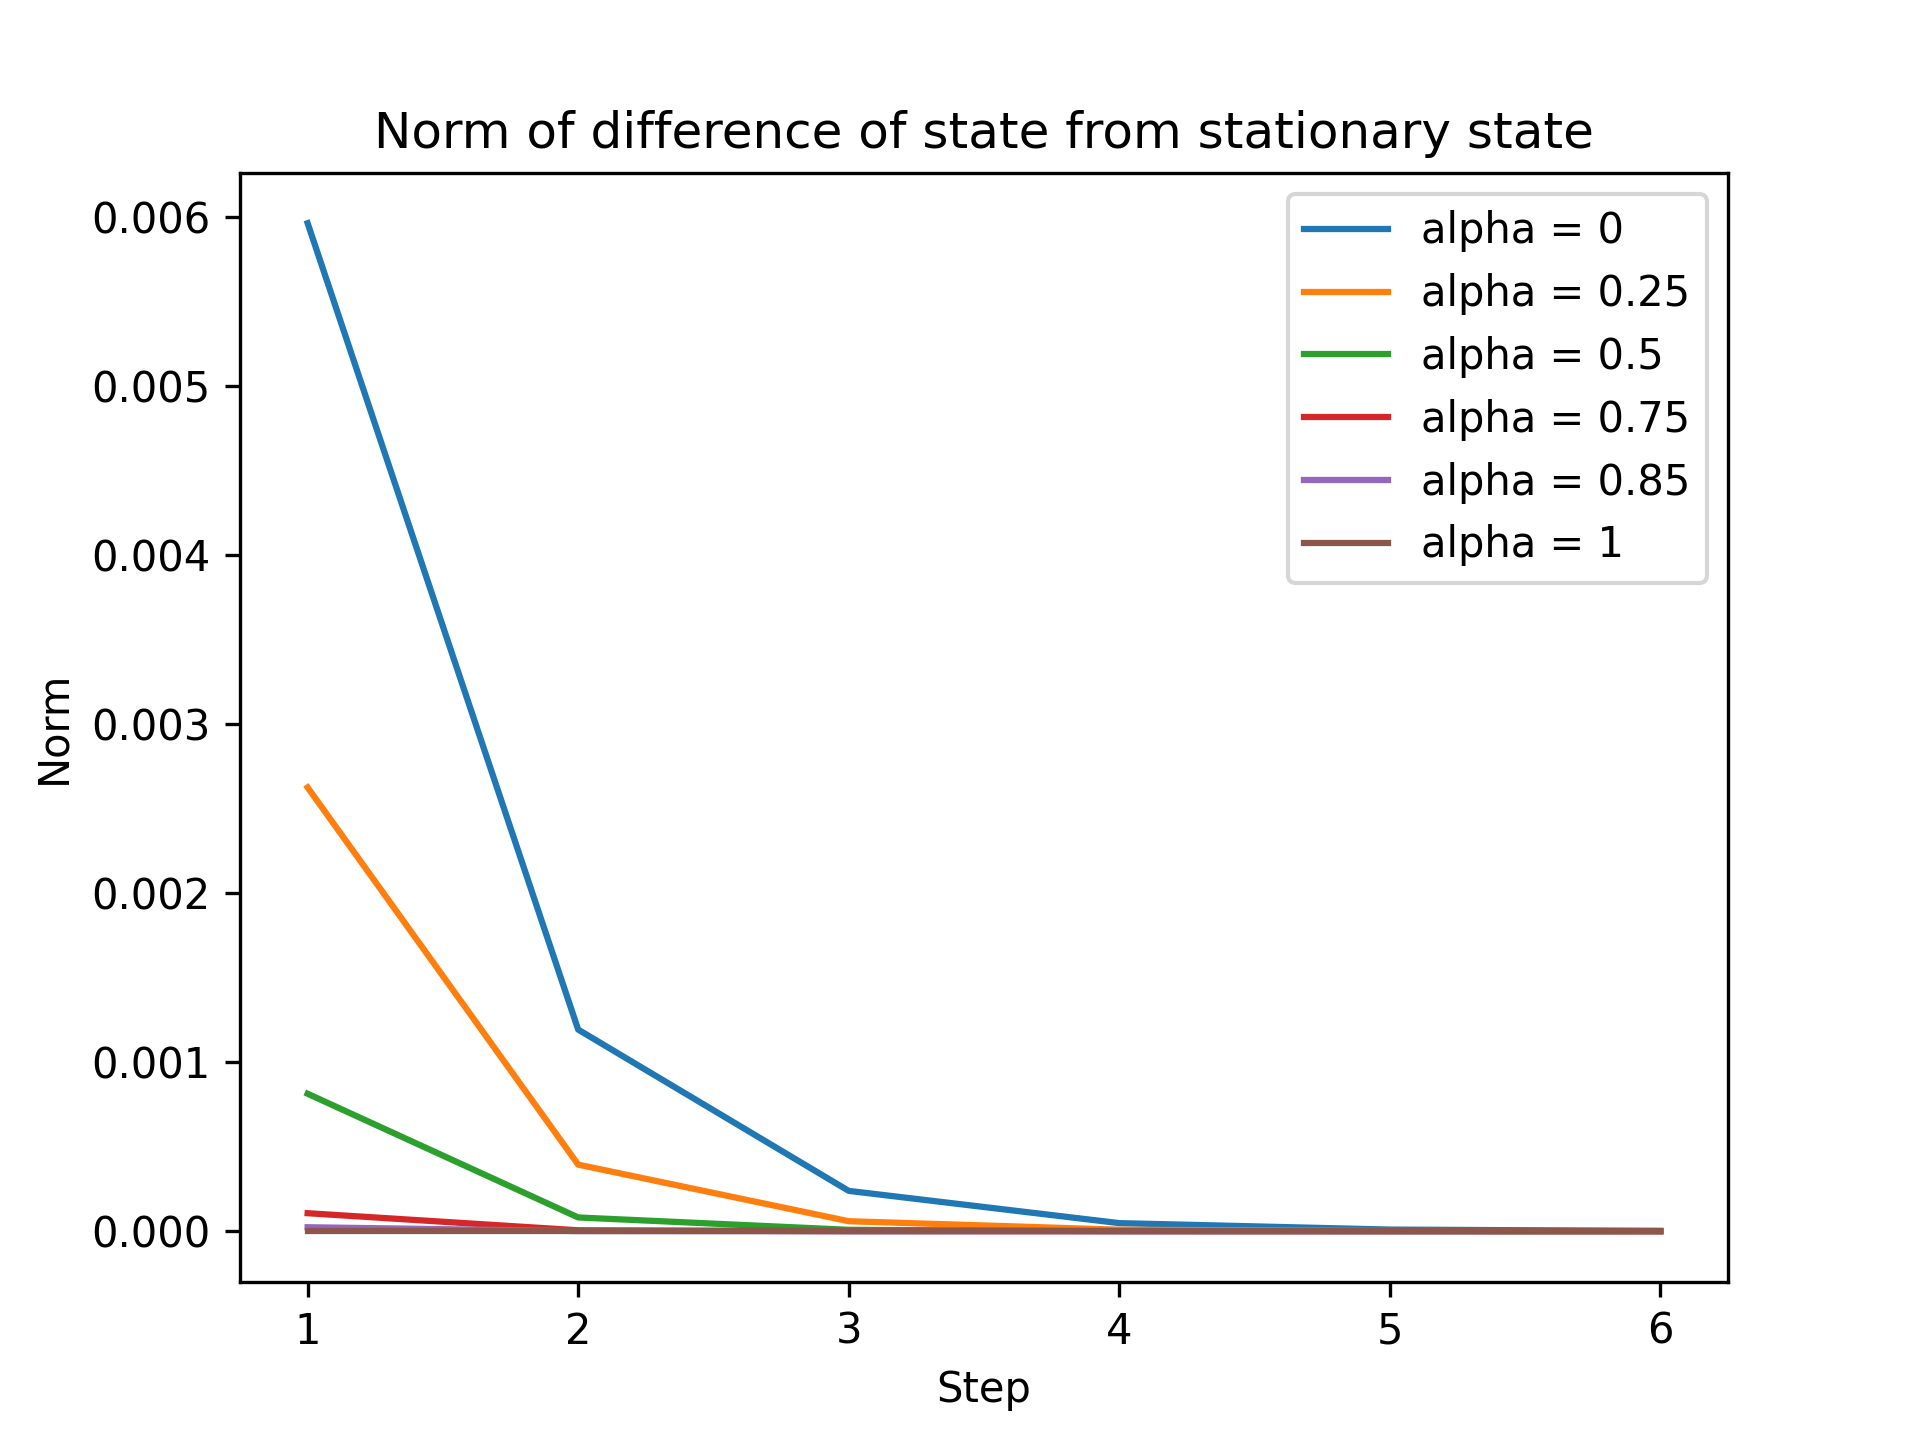
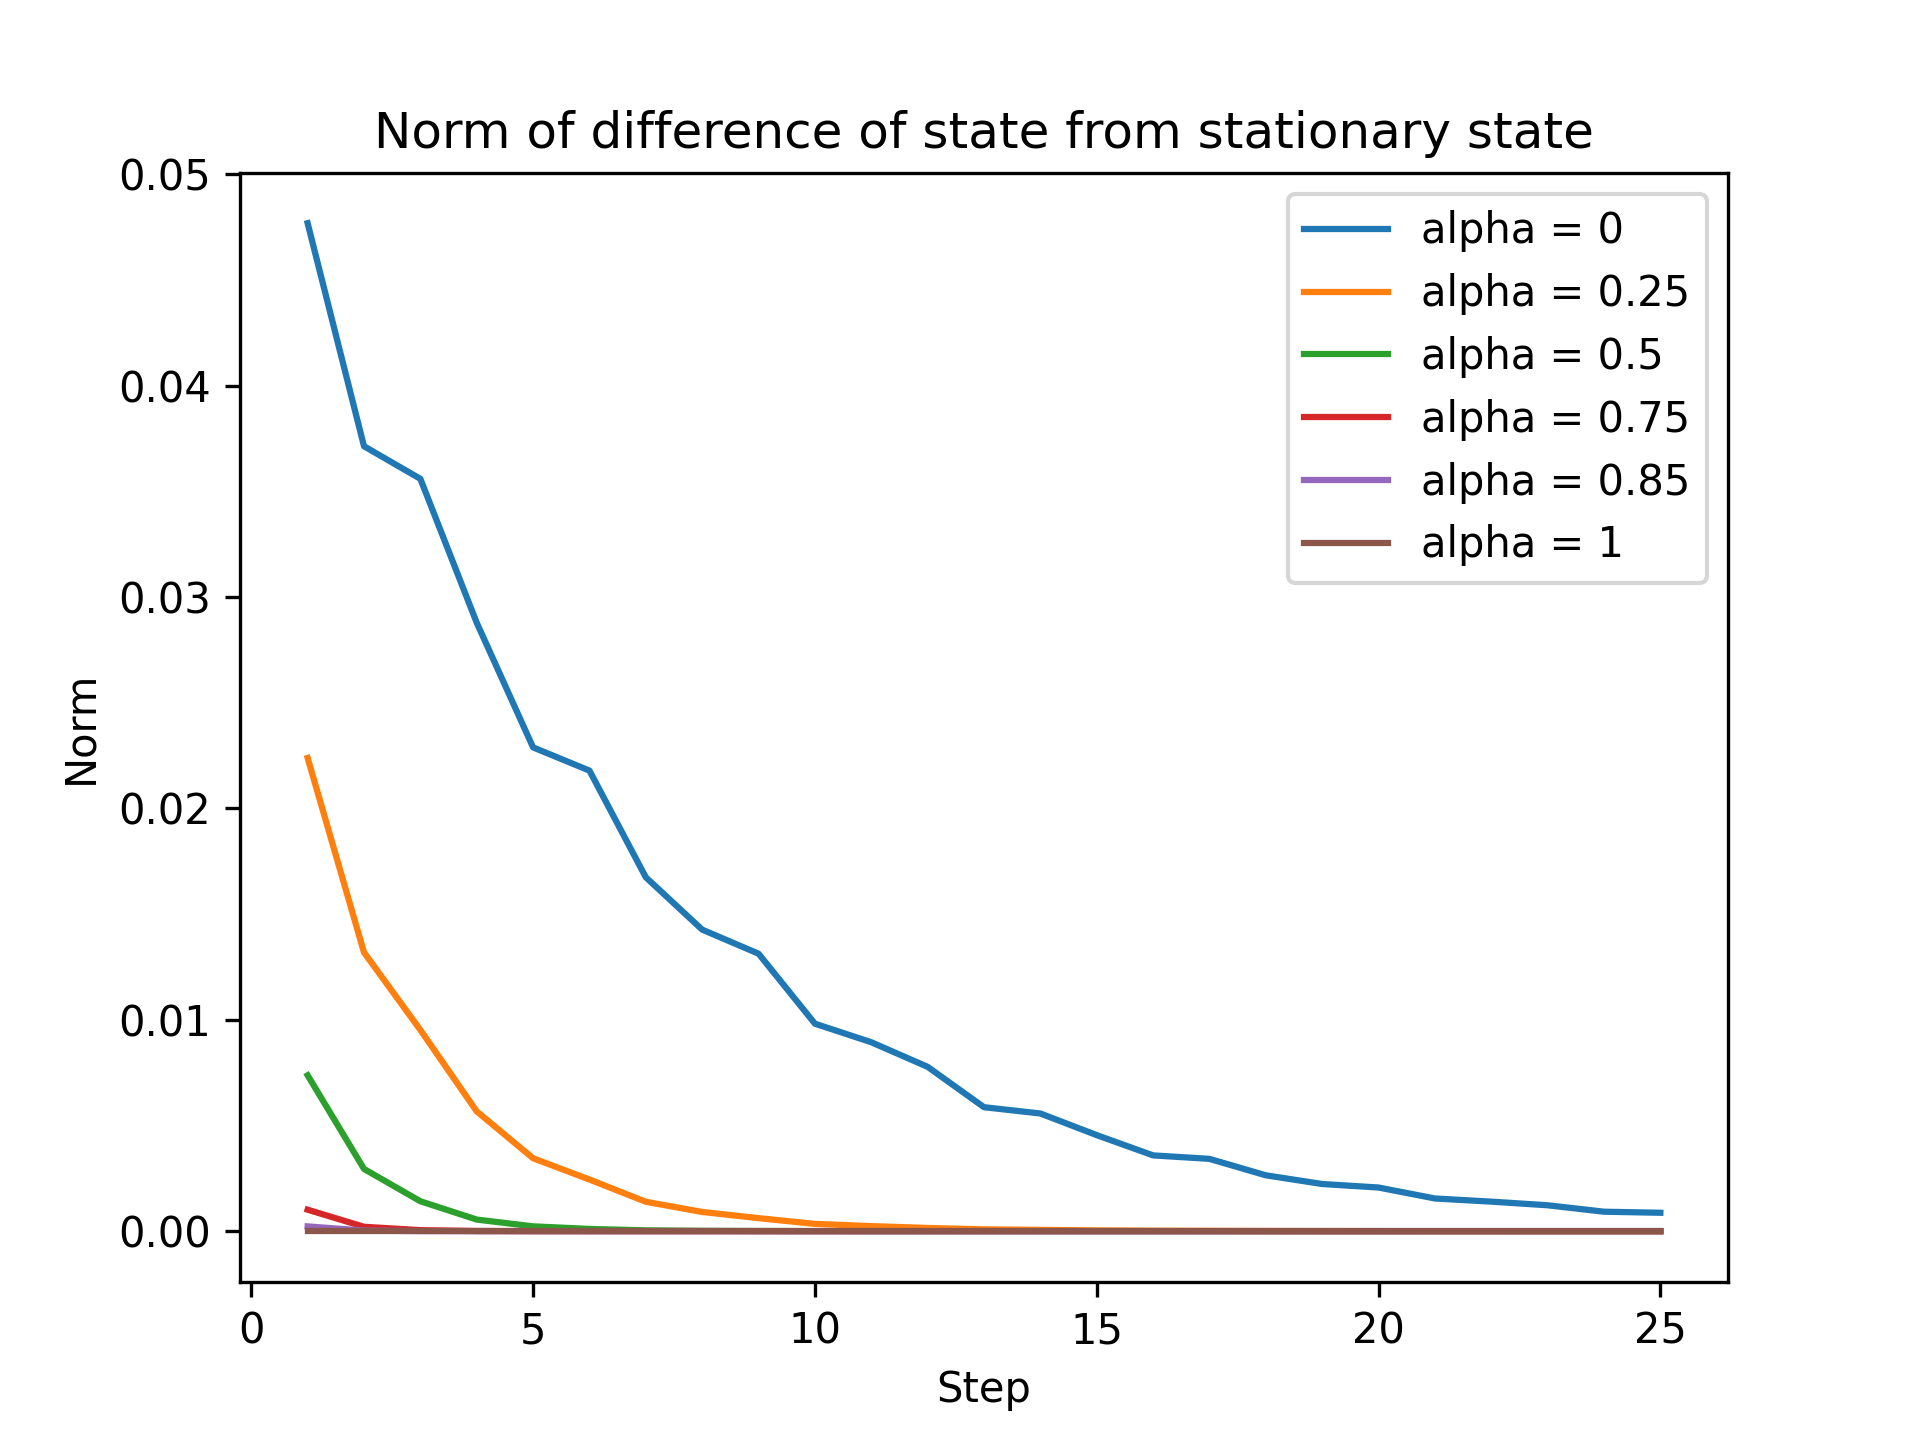
Fixed minor bugs

diff --git a/L6/graph.py b/L6/graph.py
@@ -12,7 +12,7 @@ if __name__ == "__main__":
                 data[a].append(float(item))
 
     for a in alphas:
-        plt.plot(range(1,7), data[a][:6], label="alpha = {}".format(a))
+        plt.plot(range(1,26), data[a][:25], label="alpha = {}".format(a))
     plt.legend()
     plt.title("Norm of difference of state from stationary state")
     plt.xlabel("Step")
